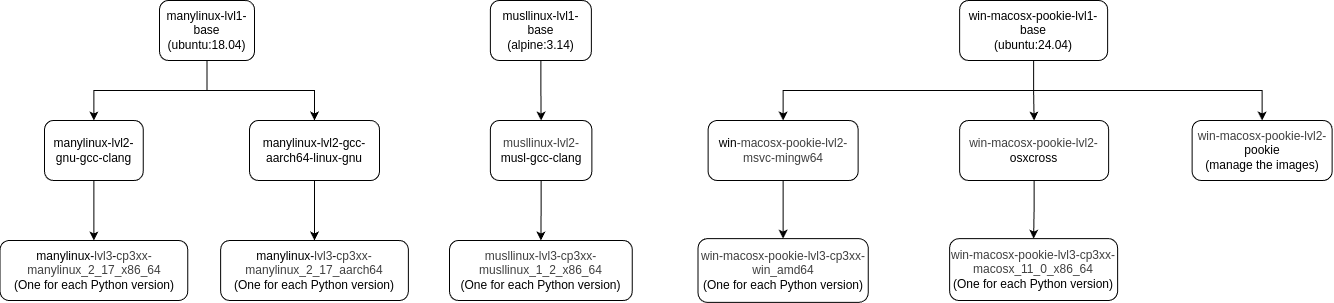
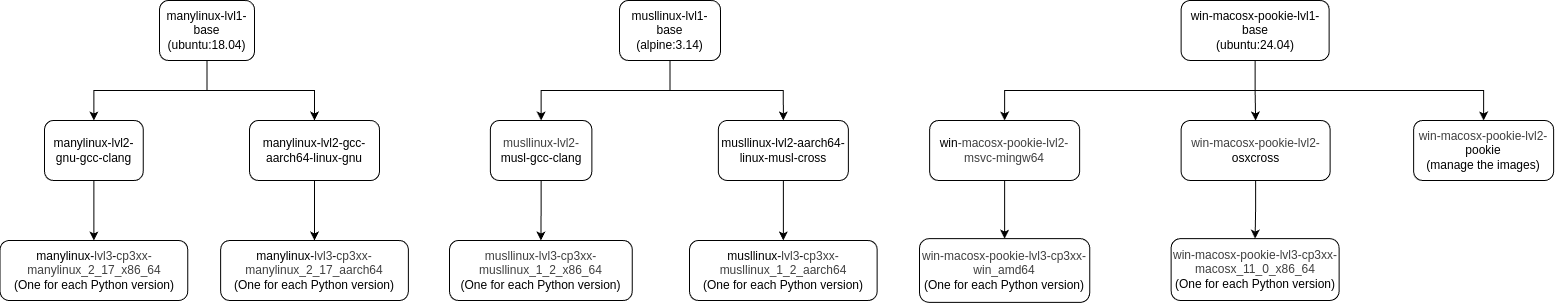
Target musl aarch64

diff --git a/src/docker_images_runner.py b/src/docker_images_runner.py
@@ -266,6 +266,36 @@ def run_docker_images(targets, logfile, python_versions_dic, build, test, linux_
                     print(f">> Testing the library for cp-{py_version_nodot}-{target}")
                     run_lvl3_image(image_name, test_command, host_workspace_path, None)
 
+            if target == 'musllinux_1_2_aarch64':
+
+                image_name = f"musllinux-lvl3-cp{py_version_nodot}-musllinux_1_2_aarch64"
+                original_dist_target = "linux_aarch64"
+                new_dist_target = "musllinux_1_2_aarch64"
+
+                # build the library
+                if build != None:
+
+                    build_command = \
+                        build + \
+                        rename_dist(original_dist_target, new_dist_target)
+
+                    print(f">> Building the library for cp-{py_version_nodot}-{target}")
+                    run_lvl3_image(image_name, build_command, host_workspace_path, logfile)
+
+                # test the library
+                if test != None:
+
+                    test_command = \
+                        wrapper('python3', '/aarch64-linux-musl-cross/aarch64-linux-musl/lib/ld-musl-aarch64.so.1 --library-path /aarch64-linux-musl-cross/aarch64-linux-musl/lib /python/bin/python3') + \
+                        wrapper('python', '/aarch64-linux-musl-cross/aarch64-linux-musl/lib/ld-musl-aarch64.so.1 --library-path /aarch64-linux-musl-cross/aarch64-linux-musl/lib /python/bin/python3') + \
+                        wrapper('pip3', '/aarch64-linux-musl-cross/aarch64-linux-musl/lib/ld-musl-aarch64.so.1 --library-path /aarch64-linux-musl-cross/aarch64-linux-musl/lib /python/bin/python3 -m pip') + \
+                        wrapper('pip', '/aarch64-linux-musl-cross/aarch64-linux-musl/lib/ld-musl-aarch64.so.1 --library-path /aarch64-linux-musl-cross/aarch64-linux-musl/lib /python/bin/python3 -m pip') + \
+                        install_dist(py_version_nodot, new_dist_target) + \
+                        test
+
+                    print(f">> Testing the library for cp-{py_version_nodot}-{target}")
+                    run_lvl3_image(image_name, test_command, host_workspace_path, None)
+
             if target == 'win_amd64':
 
                 image_name = f"win-macosx-pookie-lvl3-cp{py_version_nodot}-win_amd64"

diff --git a/src/pookie.py b/src/pookie.py
@@ -25,6 +25,8 @@ from docker_images_runner import run_docker_images
 def main():
     parser = argparse.ArgumentParser(description='Tool for Automating the Build and Testing Process of Native Python Libraries Using Cross-Compilation and Emulation Technologies')
 
+    targets = ['manylinux_2_17_x86_64', 'manylinux_2_17_aarch64',  'musllinux_1_2_x86_64', 'musllinux_1_2_aarch64', 'win_amd64', 'macosx_11_0_x86_64']
+
     parser.add_argument('--build',
                             type = str,
                             help = 'Python build bash command')
@@ -38,8 +40,8 @@ def main():
     parser.add_argument('--target',
                             type = str,
                             nargs = '+',
-                            choices = ['manylinux_2_17_x86_64', 'manylinux_2_17_aarch64',  'musllinux_1_2_x86_64', 'win_amd64', 'macosx_11_0_x86_64'],
-                            default = ['manylinux_2_17_x86_64', 'manylinux_2_17_aarch64',  'musllinux_1_2_x86_64', 'win_amd64', 'macosx_11_0_x86_64'],
+                            choices = targets,
+                            default = targets,
                             help = 'Target platform(s) to build and test the library for (if not specified: all)')
     parser.add_argument('--linux-compiler',
                             type=str,

diff --git a/src/docker_images_builder.py b/src/docker_images_builder.py
@@ -165,6 +165,29 @@ def build_docker_images(targets, logfile, python_versions_dic):
 
                 build_lvl3_image(tree, general_image_name, image_name, python_url, logfile)
 
+        if target == 'musllinux_1_2_aarch64':
+            print(f">> Creating docker images for {target}")
+            tree = "musllinux"
+
+            # level 1
+            image_name = "musllinux-lvl1-base"
+            build_lvl1_or_lvl2_image(tree, image_name, logfile)
+
+            # level 2
+            image_name = "musllinux-lvl2-aarch64-linux-musl-cross"
+            build_lvl1_or_lvl2_image(tree, image_name, logfile)
+
+            # level 3
+            for minor, target_data in python_versions_dic.items():
+                general_image_name = "musllinux-lvl3-cp3xx-musllinux_1_2_aarch64"
+
+                py_version_nodot = '3' + minor
+                image_name = f"musllinux-lvl3-cp{py_version_nodot}-musllinux_1_2_aarch64"
+
+                python_url = target_data[target]["url"]
+
+                build_lvl3_image(tree, general_image_name, image_name, python_url, logfile)
+
         if target == 'win_amd64':
             print(f">> Creating docker images for {target}")
             tree = "win-macosx-pookie"

diff --git a/src/python_version_fetcher.py b/src/python_version_fetcher.py
@@ -23,6 +23,7 @@ TARGET_MAPPING = {
     "manylinux_2_17_x86_64": "x86_64-unknown-linux-gnu",
     "manylinux_2_17_aarch64": "aarch64-unknown-linux-gnu",
     "musllinux_1_2_x86_64": "x86_64-unknown-linux-musl",
+    "musllinux_1_2_aarch64": "aarch64-unknown-linux-gnu", # Note: This should be "aarch64-unknown-linux-musl" but its not available
     "win_amd64": "x86_64-pc-windows-msvc",
     "macosx_11_0_x86_64": "x86_64-apple-darwin"
 }
@@ -89,6 +90,7 @@ def main():
         "manylinux_2_17_x86_64",
         "manylinux_2_17_aarch64",
         "musllinux_1_2_x86_64",
+        "musllinux_1_2_aarch64",
         "win_amd64",
         "macosx_11_0_x86_64"
     ]
